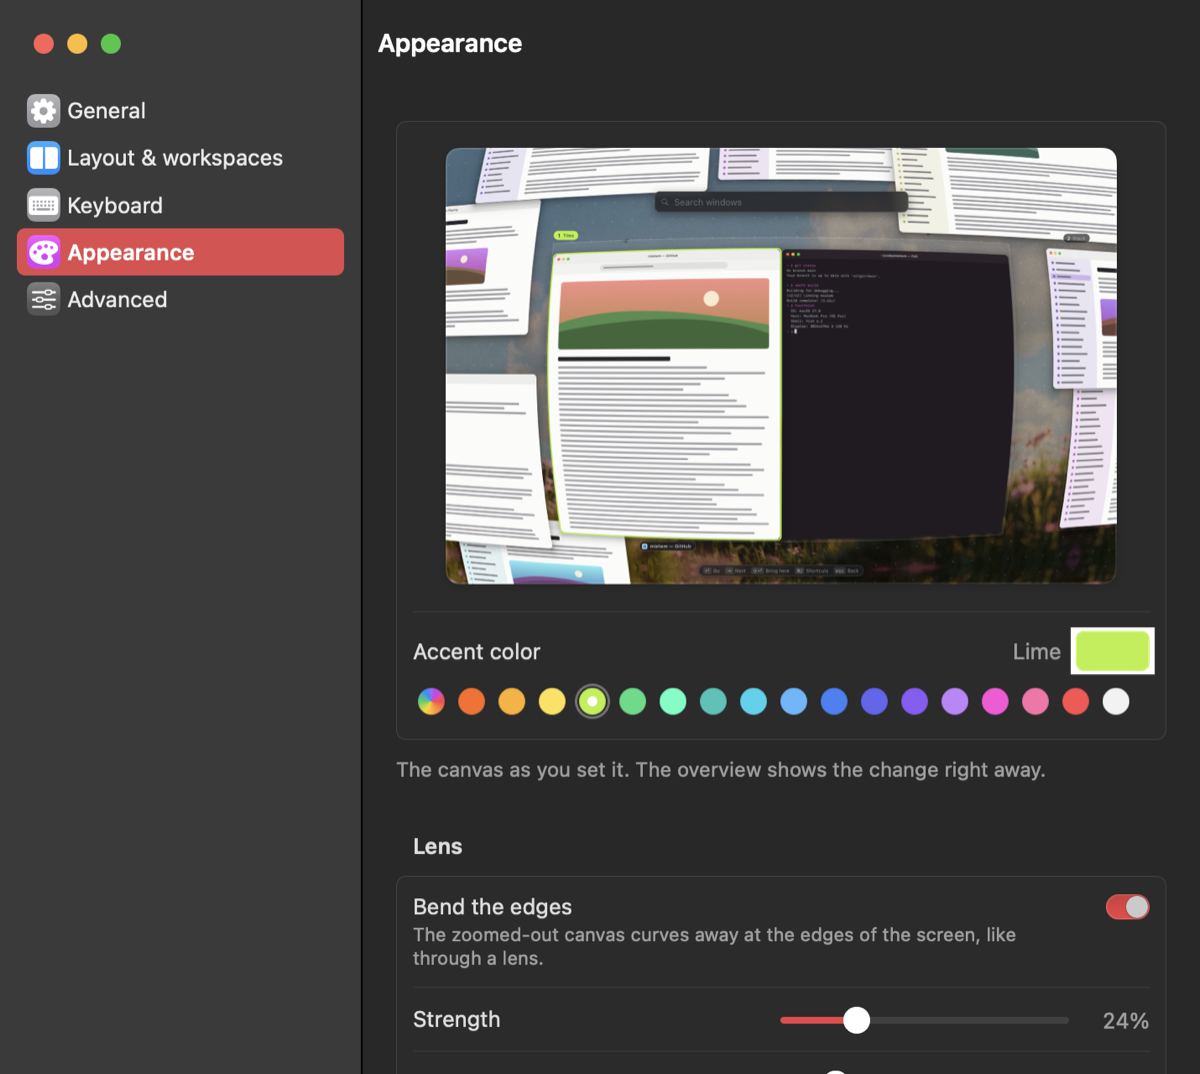
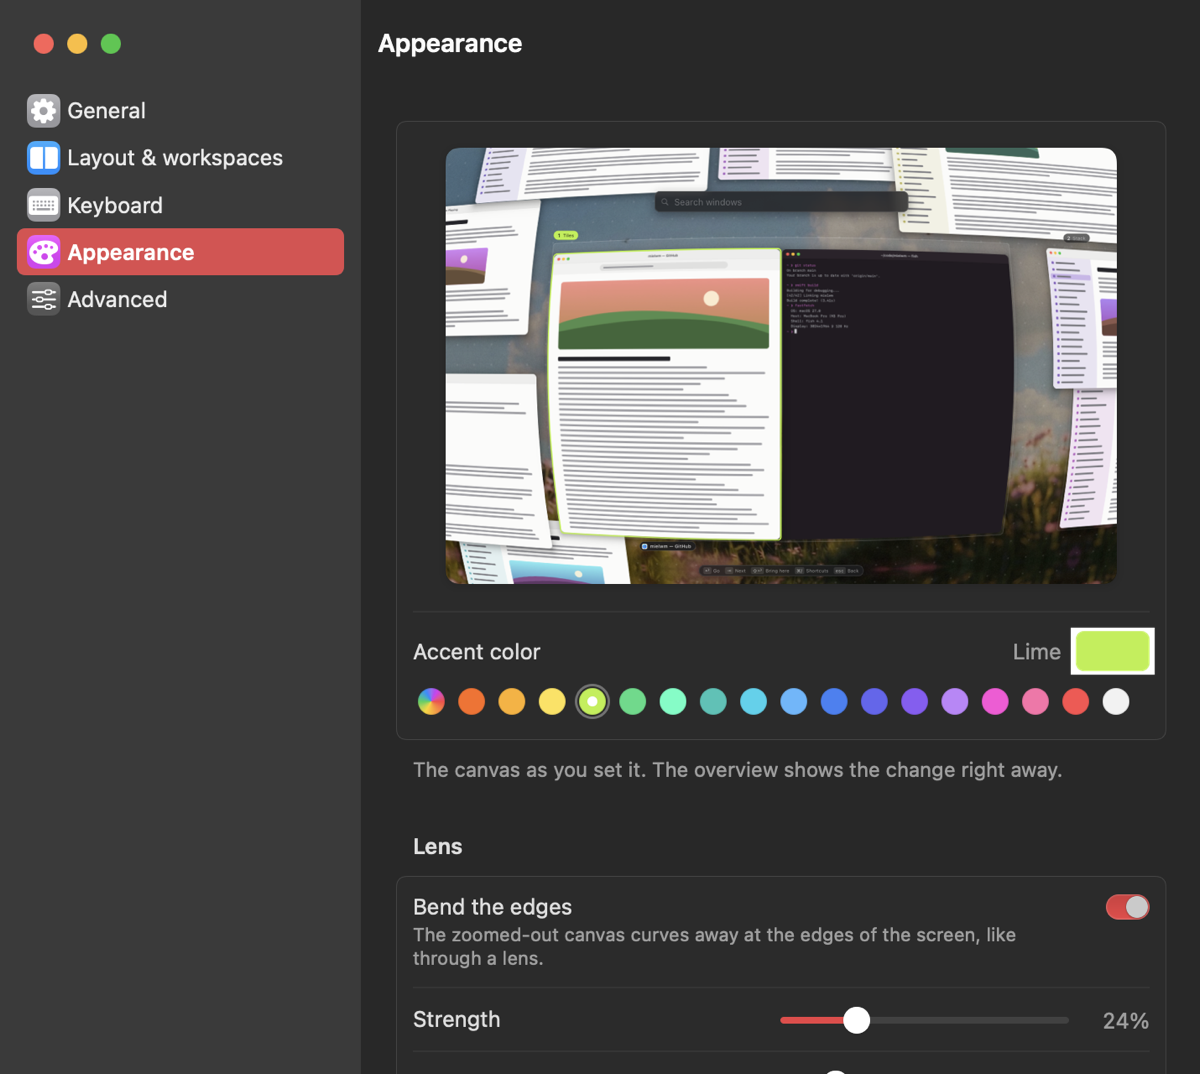
style(settings): no line beside the sidebar, aligned footers, fewer frames

Changed region(s): [[0.3392, 0.7067, 0.8942, 0.7374]]

diff --git a/Sources/mielwm/SettingsWindow.swift b/Sources/mielwm/SettingsWindow.swift
@@ -19,6 +19,8 @@ final class SettingsWindow: NSObject, NSWindowDelegate, NSToolbarDelegate {
         self.model = model
         // AppKit's split view: its sidebar item is the real translucent sidebar, full height under the title bar.
         let split = NSSplitViewController()
+        split.splitView = SeamlessSplitView()
+        split.splitView.isVertical = true
         let sidebar = NSSplitViewItem(sidebarWithViewController: NSHostingController(rootView: SettingsSidebar().environmentObject(model)))
         sidebar.canCollapse = false
         sidebar.minimumThickness = Self.sidebarWidth
@@ -99,6 +101,15 @@ final class SettingsWindow: NSObject, NSWindowDelegate, NSToolbarDelegate {
         submenu("Window", [NSMenuItem(title: "Close", action: #selector(NSWindow.performClose(_:)), keyEquivalent: "w")])
         return main
     }()
+}
+
+/// No divider: the sidebar's translucency already sets it apart, as in System Settings.
+final class SeamlessSplitView: NSSplitView {
+    override func layout() {
+        super.layout()
+        // The sidebar's divider is its own (vibrant) view, beside the panes.
+        for v in subviews where !arrangedSubviews.contains(v) && String(describing: type(of: v)).contains("Divider") { v.isHidden = true }
+    }
 }
 
 struct SettingsSidebar: View {

diff --git a/Sources/mielwm/Onboarding.swift b/Sources/mielwm/Onboarding.swift
@@ -102,12 +102,11 @@ struct OnboardingView: View {
             VStack(spacing: 0) {
                 PermissionRow(title: "Accessibility", detail: "To move and focus windows, and to hear your shortcuts.",
                               symbol: "accessibility", color: Color(nsColor: .systemBlue), granted: model.accessibility, open: model.openAccessibility)
-                Divider().padding(.leading, 52)
+                Divider().padding(.leading, 52).padding(.trailing, 12)
                 PermissionRow(title: "Screen Recording", detail: "To show live pictures of your windows when you zoom out.",
                               symbol: "rectangle.inset.filled.badge.record", color: Color(nsColor: .systemRed), granted: model.recording, open: model.openRecording)
             }
             .background(RoundedRectangle(cornerRadius: 10, style: .continuous).fill(Color(nsColor: .quaternarySystemFill)))
-            .overlay(RoundedRectangle(cornerRadius: 10, style: .continuous).strokeBorder(Color(nsColor: .separatorColor).opacity(0.5)))
             .padding(.top, 24)
             VStack(alignment: .leading, spacing: 8) {
                 if !model.recording {

diff --git a/Sources/mielwm/KeyboardPane.swift b/Sources/mielwm/KeyboardPane.swift
@@ -28,7 +28,7 @@ struct KeyboardPane: View {
                 } header: {
                     VStack(alignment: .leading, spacing: 14) {
                         // Said once, above the first shortcut it applies to.
-                        if index == 0 { Text("Click a shortcut, then press the new keys. Esc cancels, Delete clears it.").settingsFooter() }
+                        if index == 0 { Text("Click a shortcut, then press the new keys. Esc cancels, Delete clears it.").font(.callout).foregroundStyle(.secondary) }
                         Text(group.title)
                     }
                 }

diff --git a/Sources/mielwm/SettingsControls.swift b/Sources/mielwm/SettingsControls.swift
@@ -30,7 +30,8 @@ struct LabeledSlider: View {
 }
 
 extension Text {
+    /// Indented like the section titles and row labels, so all text starts on one edge.
     func settingsFooter() -> some View {
-        font(.callout).foregroundStyle(.secondary).multilineTextAlignment(.leading).frame(maxWidth: .infinity, alignment: .leading)
+        font(.callout).foregroundStyle(.secondary).multilineTextAlignment(.leading).frame(maxWidth: .infinity, alignment: .leading).padding(.horizontal, 10)
     }
 }

diff --git a/Sources/mielwm/AppearancePreview.swift b/Sources/mielwm/AppearancePreview.swift
@@ -100,7 +100,6 @@ struct AppearancePreviewView: View {
         .aspectRatio(aspect, contentMode: .fit)
         .frame(maxWidth: 400)
         .clipShape(RoundedRectangle(cornerRadius: 8, style: .continuous))
-        .overlay(RoundedRectangle(cornerRadius: 8, style: .continuous).strokeBorder(.primary.opacity(0.12), lineWidth: 1))
         .shadow(color: .black.opacity(0.15), radius: 3, y: 1)
         .frame(maxWidth: .infinity)
         .padding(.vertical, 6)
